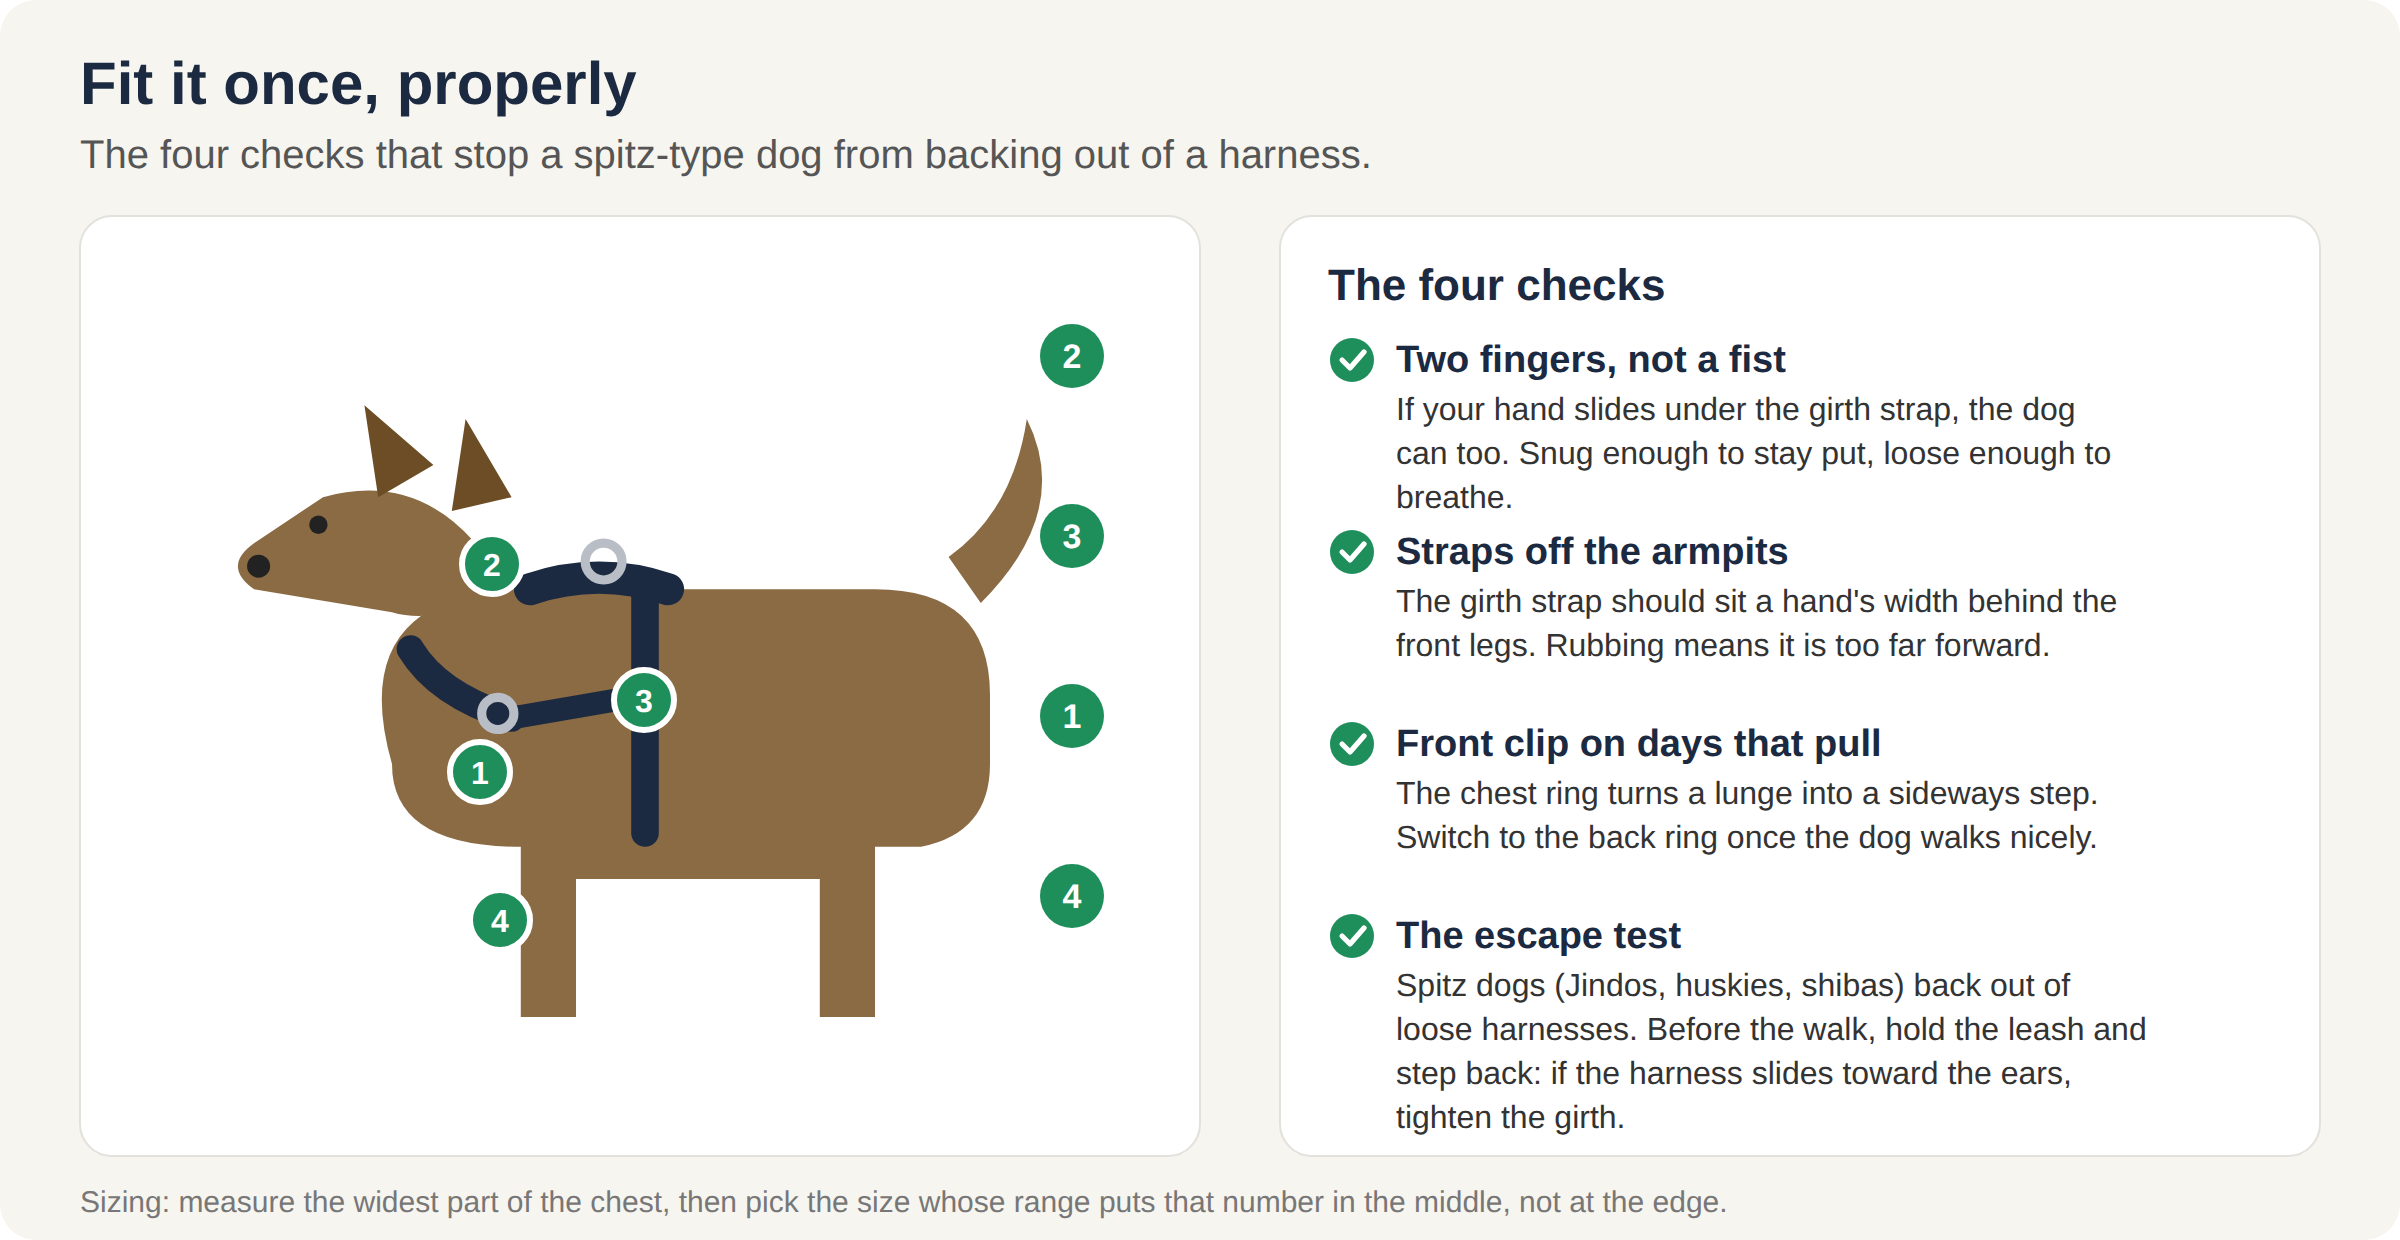
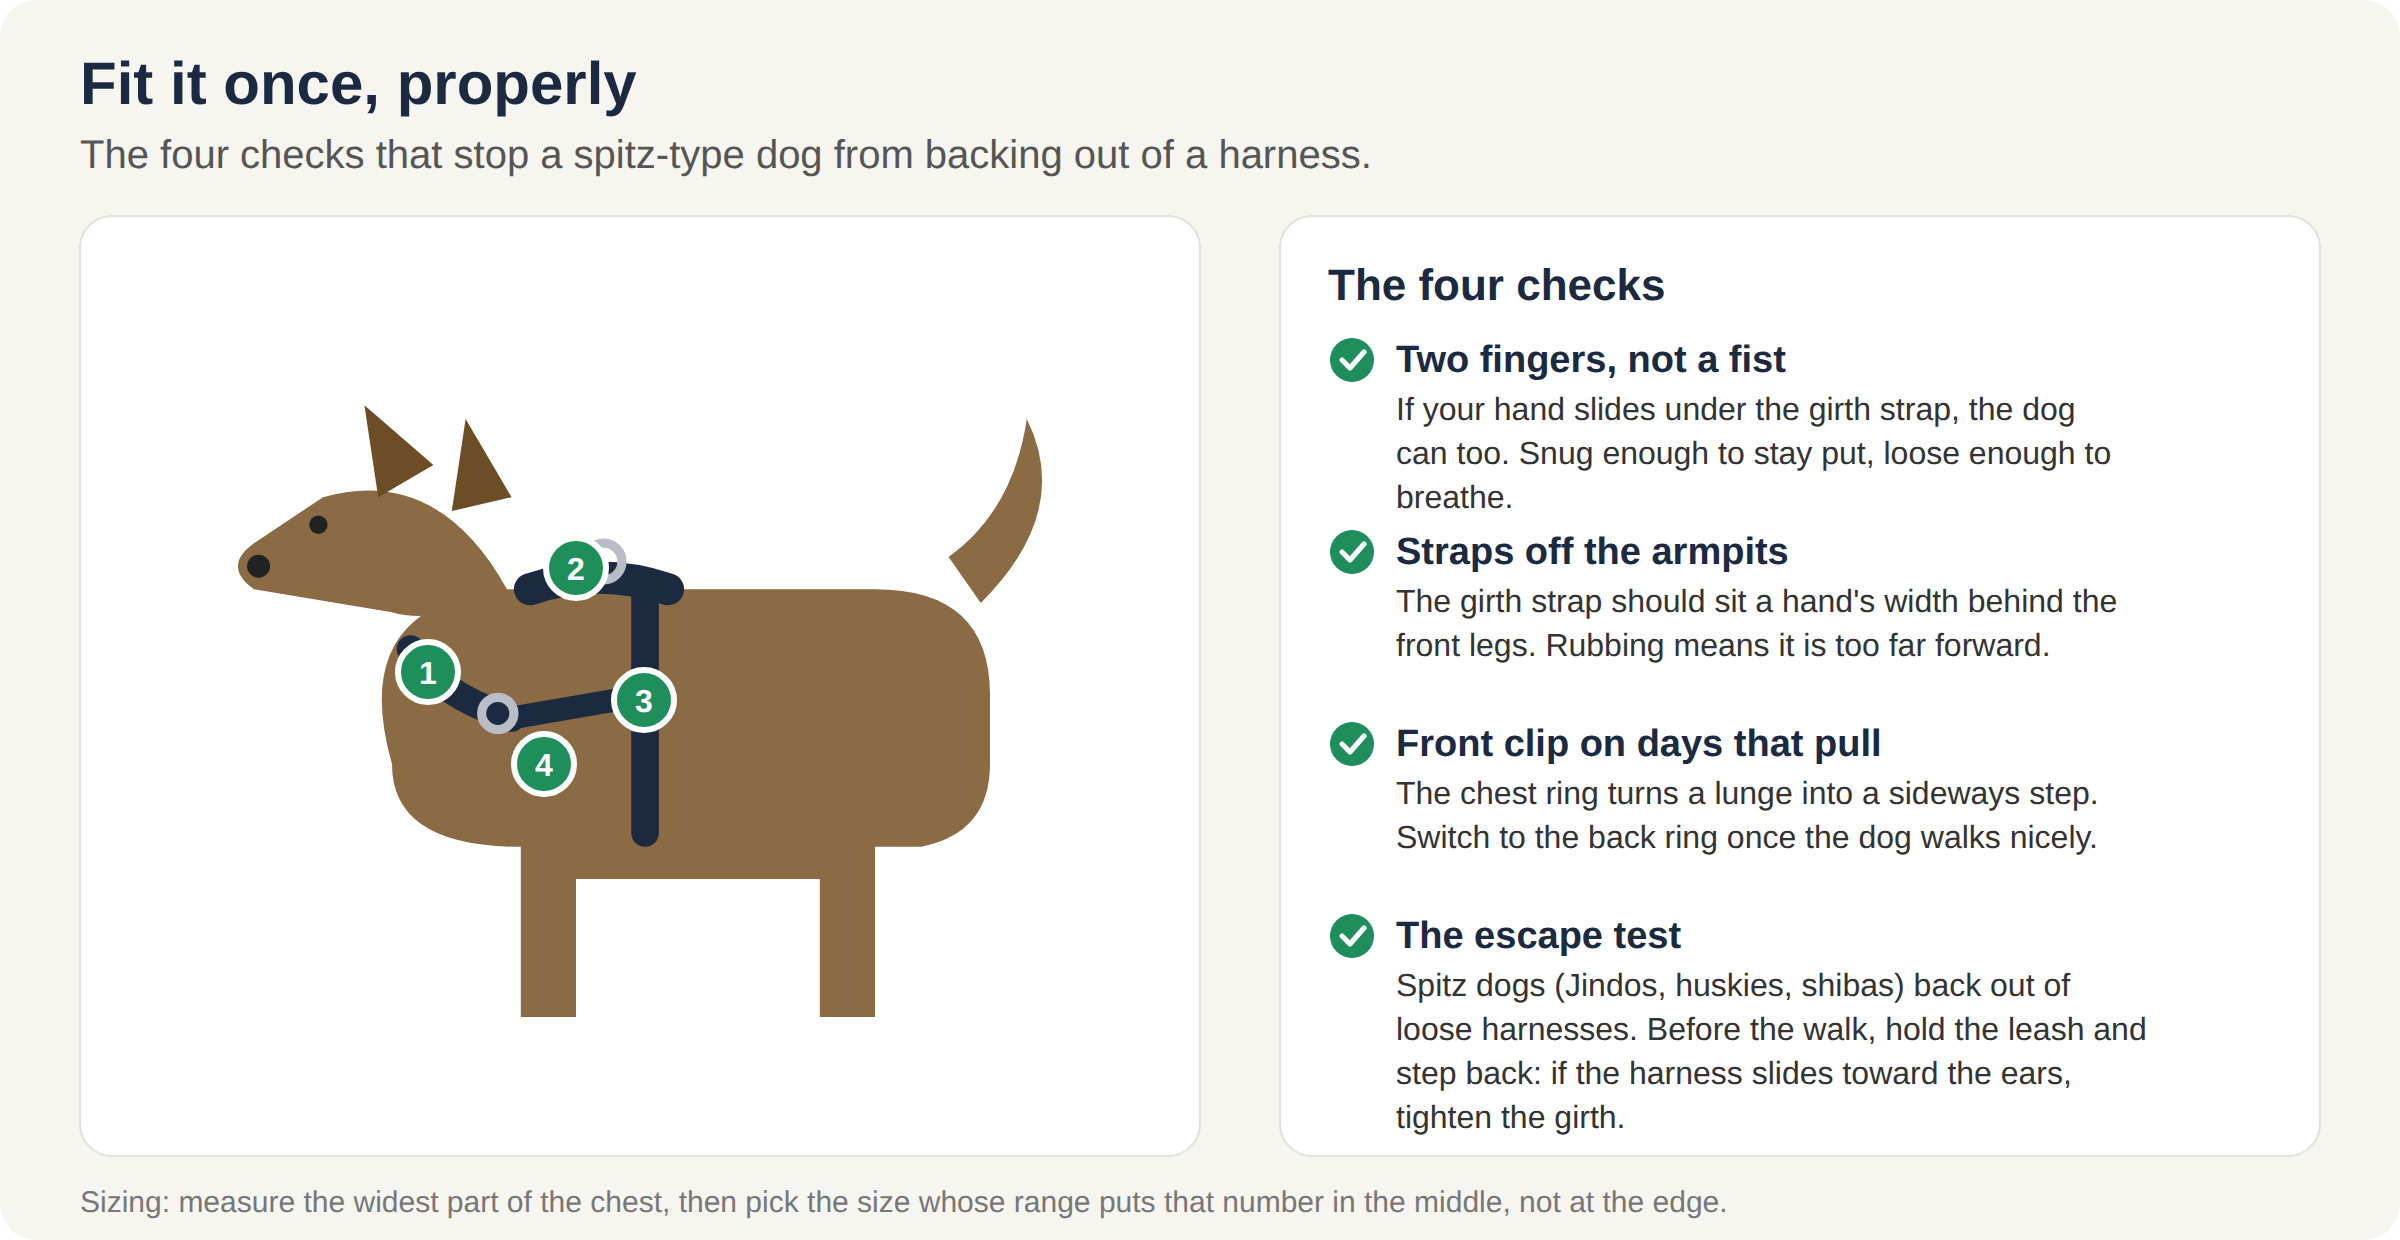
Dog essentials guide (WIP): fit and KONG infographics laid out cleanly
Claude-Session: https://claude.ai/code/session_01GujuvmoSnA4z2t9mXJQtVa

diff --git a/scripts/dog_infographics.py b/scripts/dog_infographics.py
@@ -50,12 +50,8 @@ def fit():
     o.append(f'<rect x="40" y="108" width="560" height="470" rx="16" fill="#fff" stroke="#e3e1db"/>')
     o.append(dog(150, 520, 1.15, harness=NAVY))
     # callouts
-    calls = [(556, 178, "Back plate sits behind the shoulder blades, not on the neck", 2), (556, 268, "Girth strap: two fingers flat under it, no more", 3),
-             (556, 358, "Chest strap crosses the breastbone, above the front legs", 1), (556, 448, "Front ring for pullers; back ring for relaxed walks", 4)]
-    for cx, cy, label, n in calls:
-        o.append(f'<circle cx="{cx - 20}" cy="{cy}" r="16" fill="{GREEN}"/>' + text(cx - 20, cy + 6, str(n), 17, 800, "#fff", "middle"))
-    # number markers on the drawing
-    for px, py, n in ((246, 282, 2), (322, 350, 3), (240, 386, 1), (250, 460, 4)):
+    # number markers on the drawing: 1 chest strap, 2 back plate, 3 girth strap, 4 front ring
+    for px, py, n in ((214, 336, 1), (288, 284, 2), (322, 350, 3), (272, 382, 4)):
         o.append(f'<circle cx="{px}" cy="{py}" r="15" fill="{GREEN}" stroke="#fff" stroke-width="3"/>' + text(px, py + 6, str(n), 16, 800, "#fff", "middle"))
     # right column: checks and the escape fix
     x = 640
@@ -78,7 +74,7 @@ def kong():
     o = head(W, H, "How to stuff a KONG: four fillings from easy to expert, and how long each keeps a dog busy", "The KONG, from 3 minutes to 30", "Same toy, four difficulty levels. The freezer is the whole trick.")
     levels = [("Level 1", "Kibble only", "Dry kibble poured in; the dog tips it out.", "3–5 min", GREEN),
               ("Level 2", "Kibble + a smear", "Kibble sealed in with peanut butter (xylitol-free) or plain yogurt.", "10–15 min", GREEN),
-              ("Level 3", "Layered and frozen", "Soaked kibble or wet food, a treat in the middle, frozen 2–3 hours.", "20–30 min", AMBER),
+              ("Level 3", "Layered and frozen", "Soaked kibble or wet food, a treat in the middle, frozen 2–3 hours on a plate.", "20–30 min", AMBER),
               ("Level 4", "The dinner KONG", "The whole meal goes in; two frozen KONGs replace the bowl on a rainy day.", "30 min+", NAVY)]
     for i, (lv, name, desc, mins, c) in enumerate(levels):
         x = 40 + i * 285
@@ -86,14 +82,13 @@ def kong():
         o.append(text(x + 20, 158, lv, 16, 800, c, extra='letter-spacing="2"'))
         o.append(text(x + 20, 190, name, 22, 800, NAVY))
         # a small KONG glyph filled to the level
-        kx, ky = x + 200, 250
+        kx, ky = x + 212, 318
         o.append(f'<ellipse cx="{kx}" cy="{ky + 40}" rx="30" ry="24" fill="#C8102E"/><ellipse cx="{kx}" cy="{ky + 6}" rx="23" ry="19" fill="#C8102E"/><ellipse cx="{kx}" cy="{ky - 22}" rx="16" ry="13" fill="#C8102E"/>')
         fill_h = [14, 28, 46, 60][i]
         o.append(f'<clipPath id="k{i}"><ellipse cx="{kx}" cy="{ky + 40}" rx="30" ry="24"/><ellipse cx="{kx}" cy="{ky + 6}" rx="23" ry="19"/><ellipse cx="{kx}" cy="{ky - 22}" rx="16" ry="13"/></clipPath>')
         o.append(f'<rect x="{kx - 32}" y="{ky + 64 - fill_h}" width="64" height="{fill_h}" fill="#F4B942" opacity="0.9" clip-path="url(#k{i})"/>')
-        for j, r in enumerate(wrap(desc, 30)): o.append(text(x + 20, 230 + j * 22, r, 16, 400, "#333"))
-        o.append(f'<rect x="{x + 20}" y="360" width="150" height="34" rx="17" fill="{PAPER}" stroke="#e3e1db"/>' + text(x + 95, 383, f"Busy: {mins}", 15, 700, NAVY, "middle"))
-        if i == 2: o.append(f'<text x="{x + 20}" y="424" font-size="14" fill="{INK2}">Freeze on a plate or in a mug so the filling stays put.</text>')
+        for j, r in enumerate(wrap(desc, 27)): o.append(text(x + 20, 226 + j * 22, r, 16, 400, "#333"))
+        o.append(f'<rect x="{x + 20}" y="396" width="150" height="34" rx="17" fill="{PAPER}" stroke="#e3e1db"/>' + text(x + 95, 419, f"Busy: {mins}", 15, 700, NAVY, "middle"))
     o.append(text(40, 480, "Rules: no xylitol (check peanut-butter labels), no cooked bones, size up for power chewers, and wash it in the top rack of the dishwasher.", 16, 700, NAVY))
     o.append(text(40, 508, "Times are typical for a food-motivated medium dog; a KONG that empties in a minute needs a harder level or a smaller opening (freeze it).", 15, 400, "#777"))
     o.append(text(40, 540, "Vets and trainers recommend feeding at least one meal a day from a puzzle; this is the cheapest puzzle there is.", 15, 400, "#777"))
